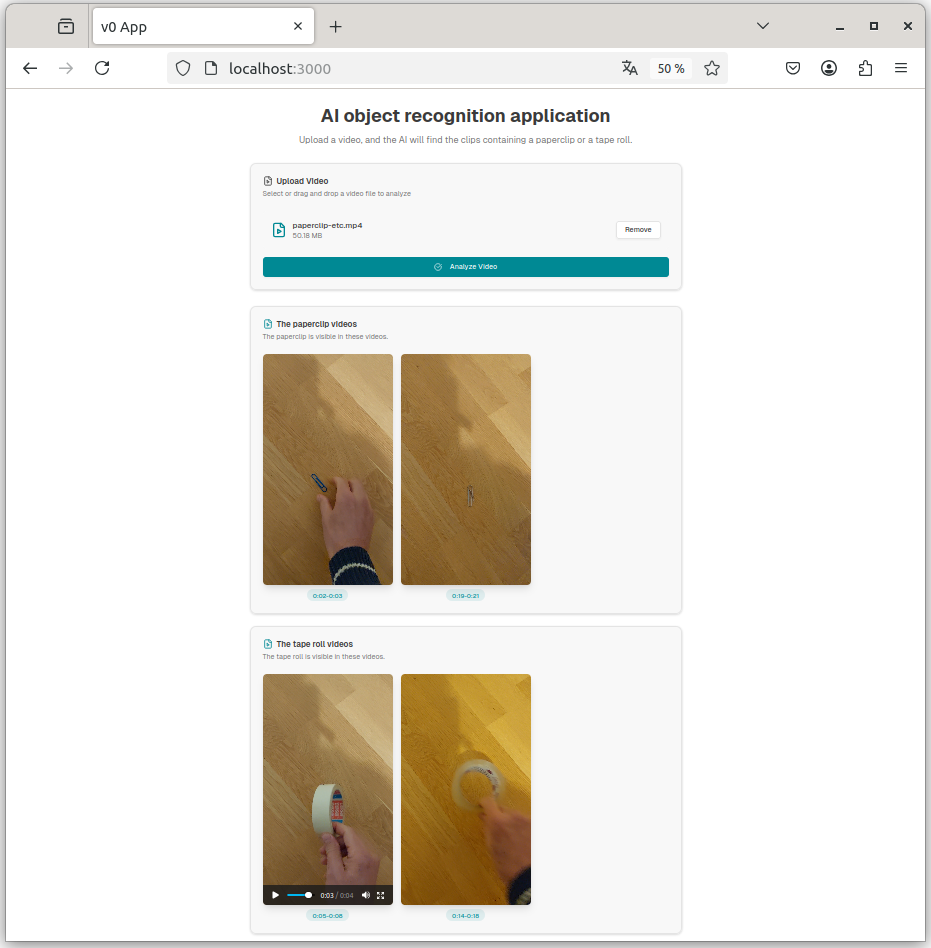
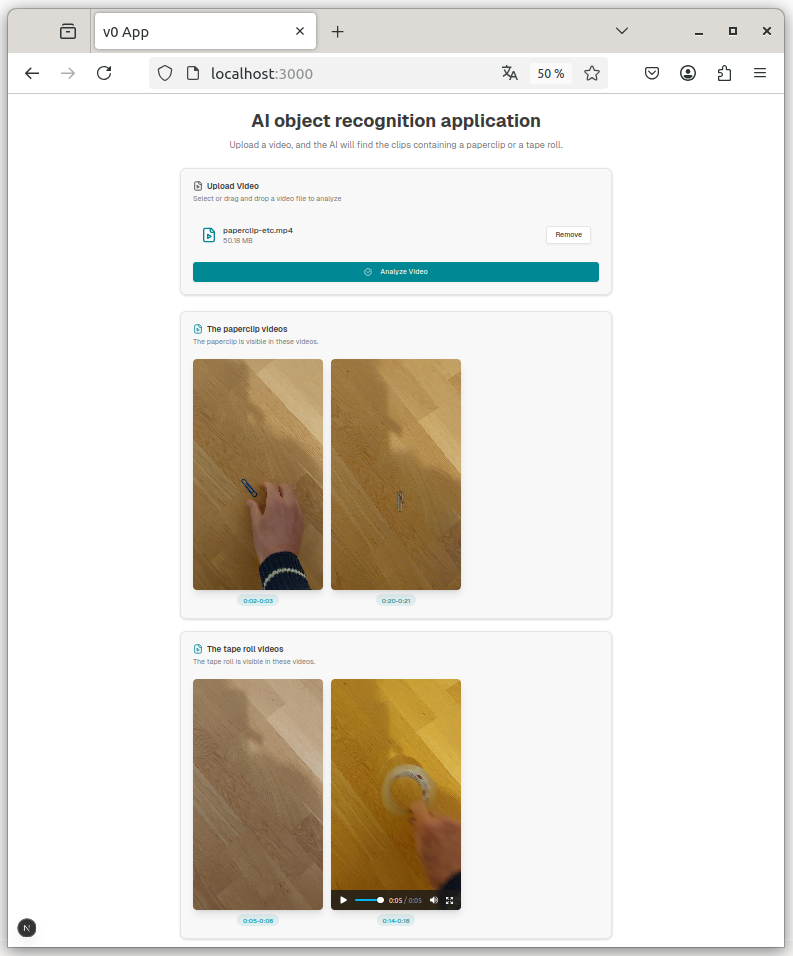
Fixed Firefox lazy video problem

diff --git a/app/page.tsx b/app/page.tsx
@@ -288,8 +288,16 @@ export default function VideoAnalysisApp() {
                             src={clippedVideo.url}
                             controls
                             className="w-full rounded-lg shadow-lg"
-                            preload="metadata"
+                            preload="auto"
                             playsInline
+                            onLoadedMetadata={(e) => {
+                              // Force Firefox to buffer more data
+                              const video = e.currentTarget
+                              if (video.buffered.length === 0) {
+                                // Trigger buffering by setting currentTime
+                                video.currentTime = 0.01
+                              }
+                            }}
                             onError={(e) => {
                               const video = e.currentTarget
                               if (video.error?.code === MediaError.MEDIA_ERR_ABORTED) {
